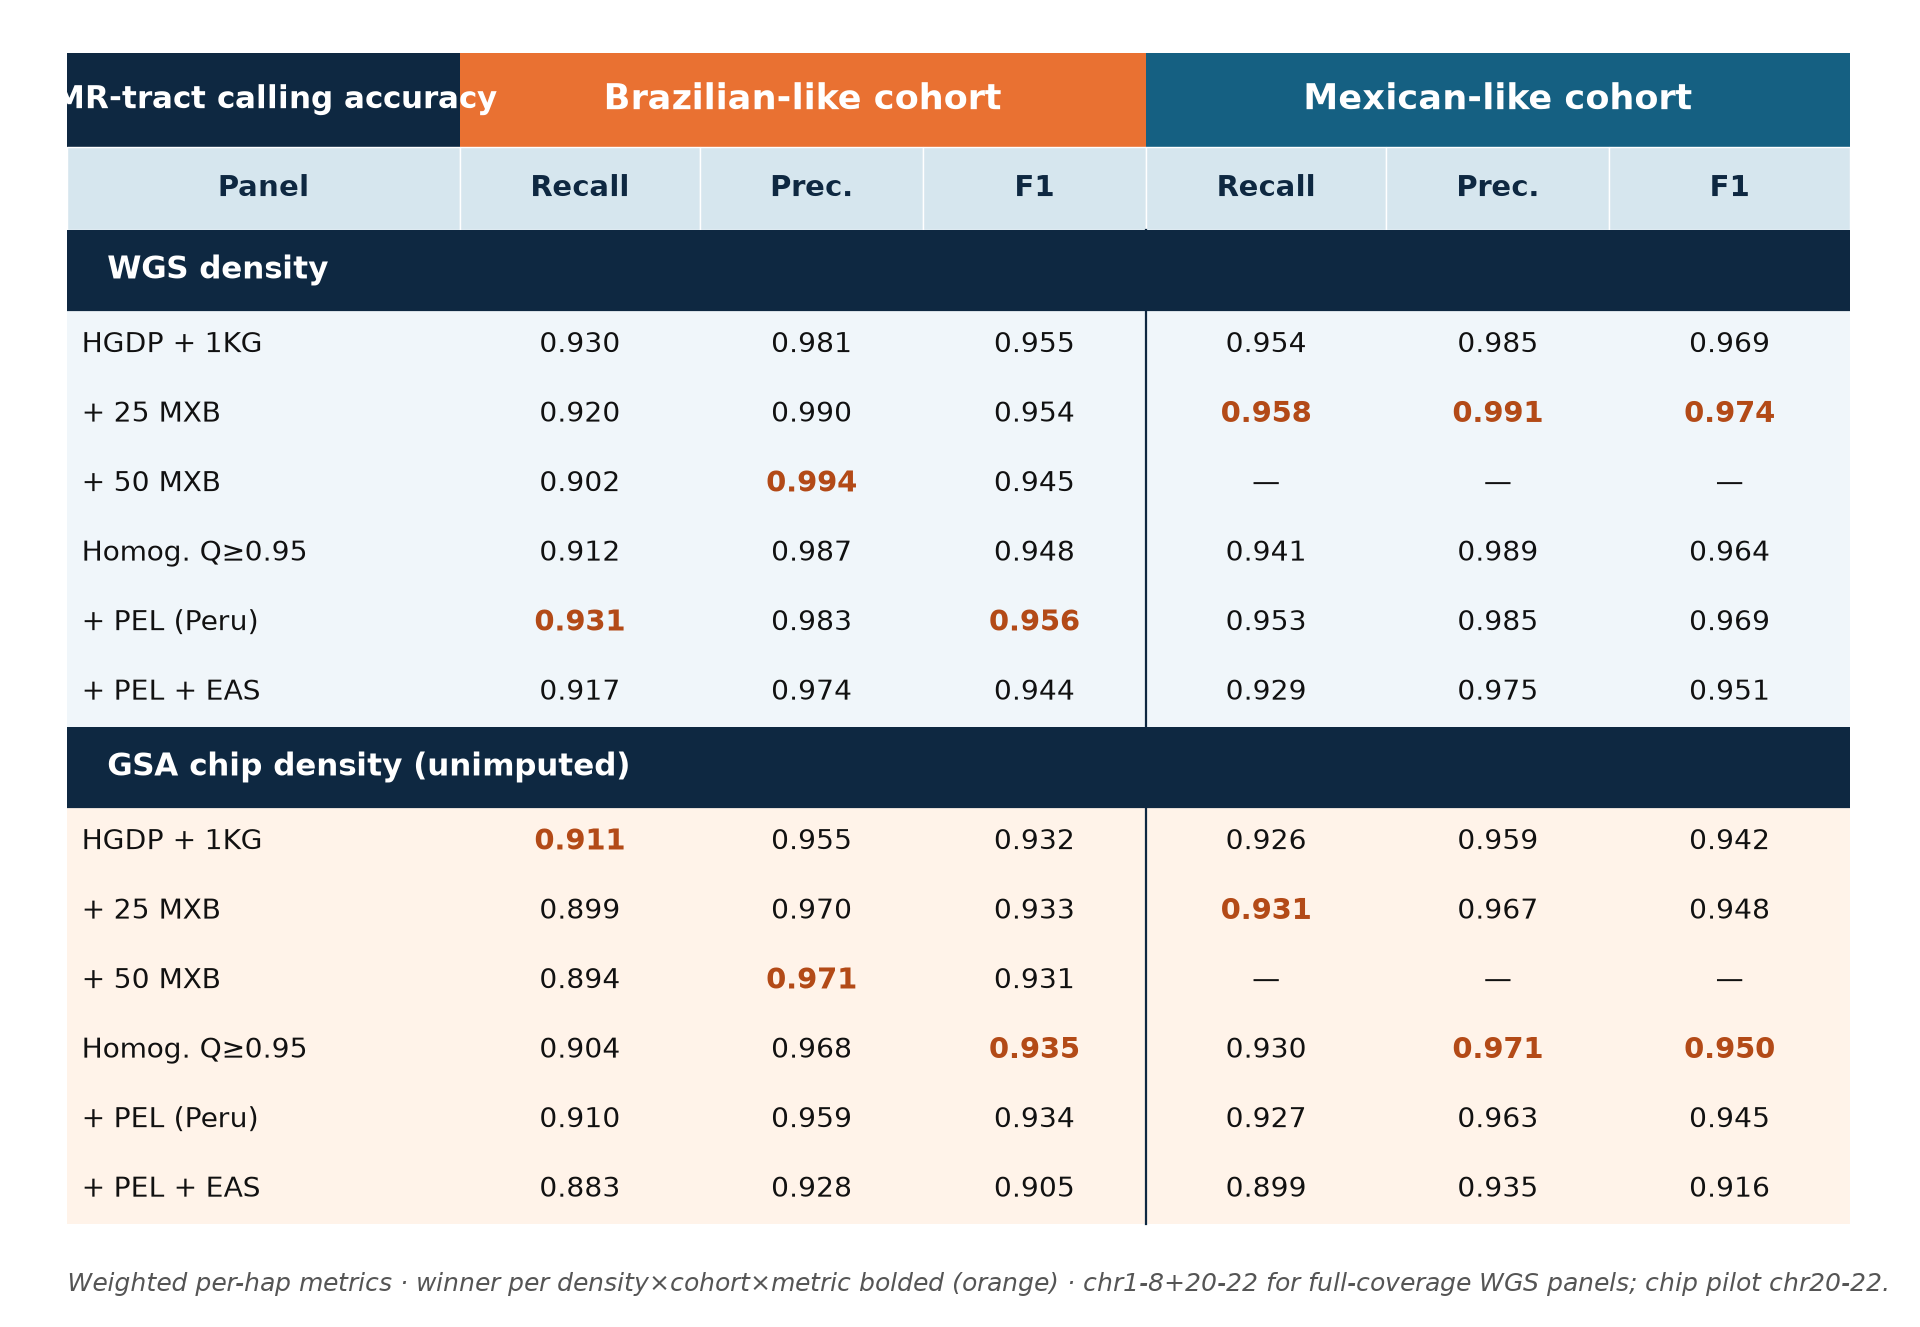
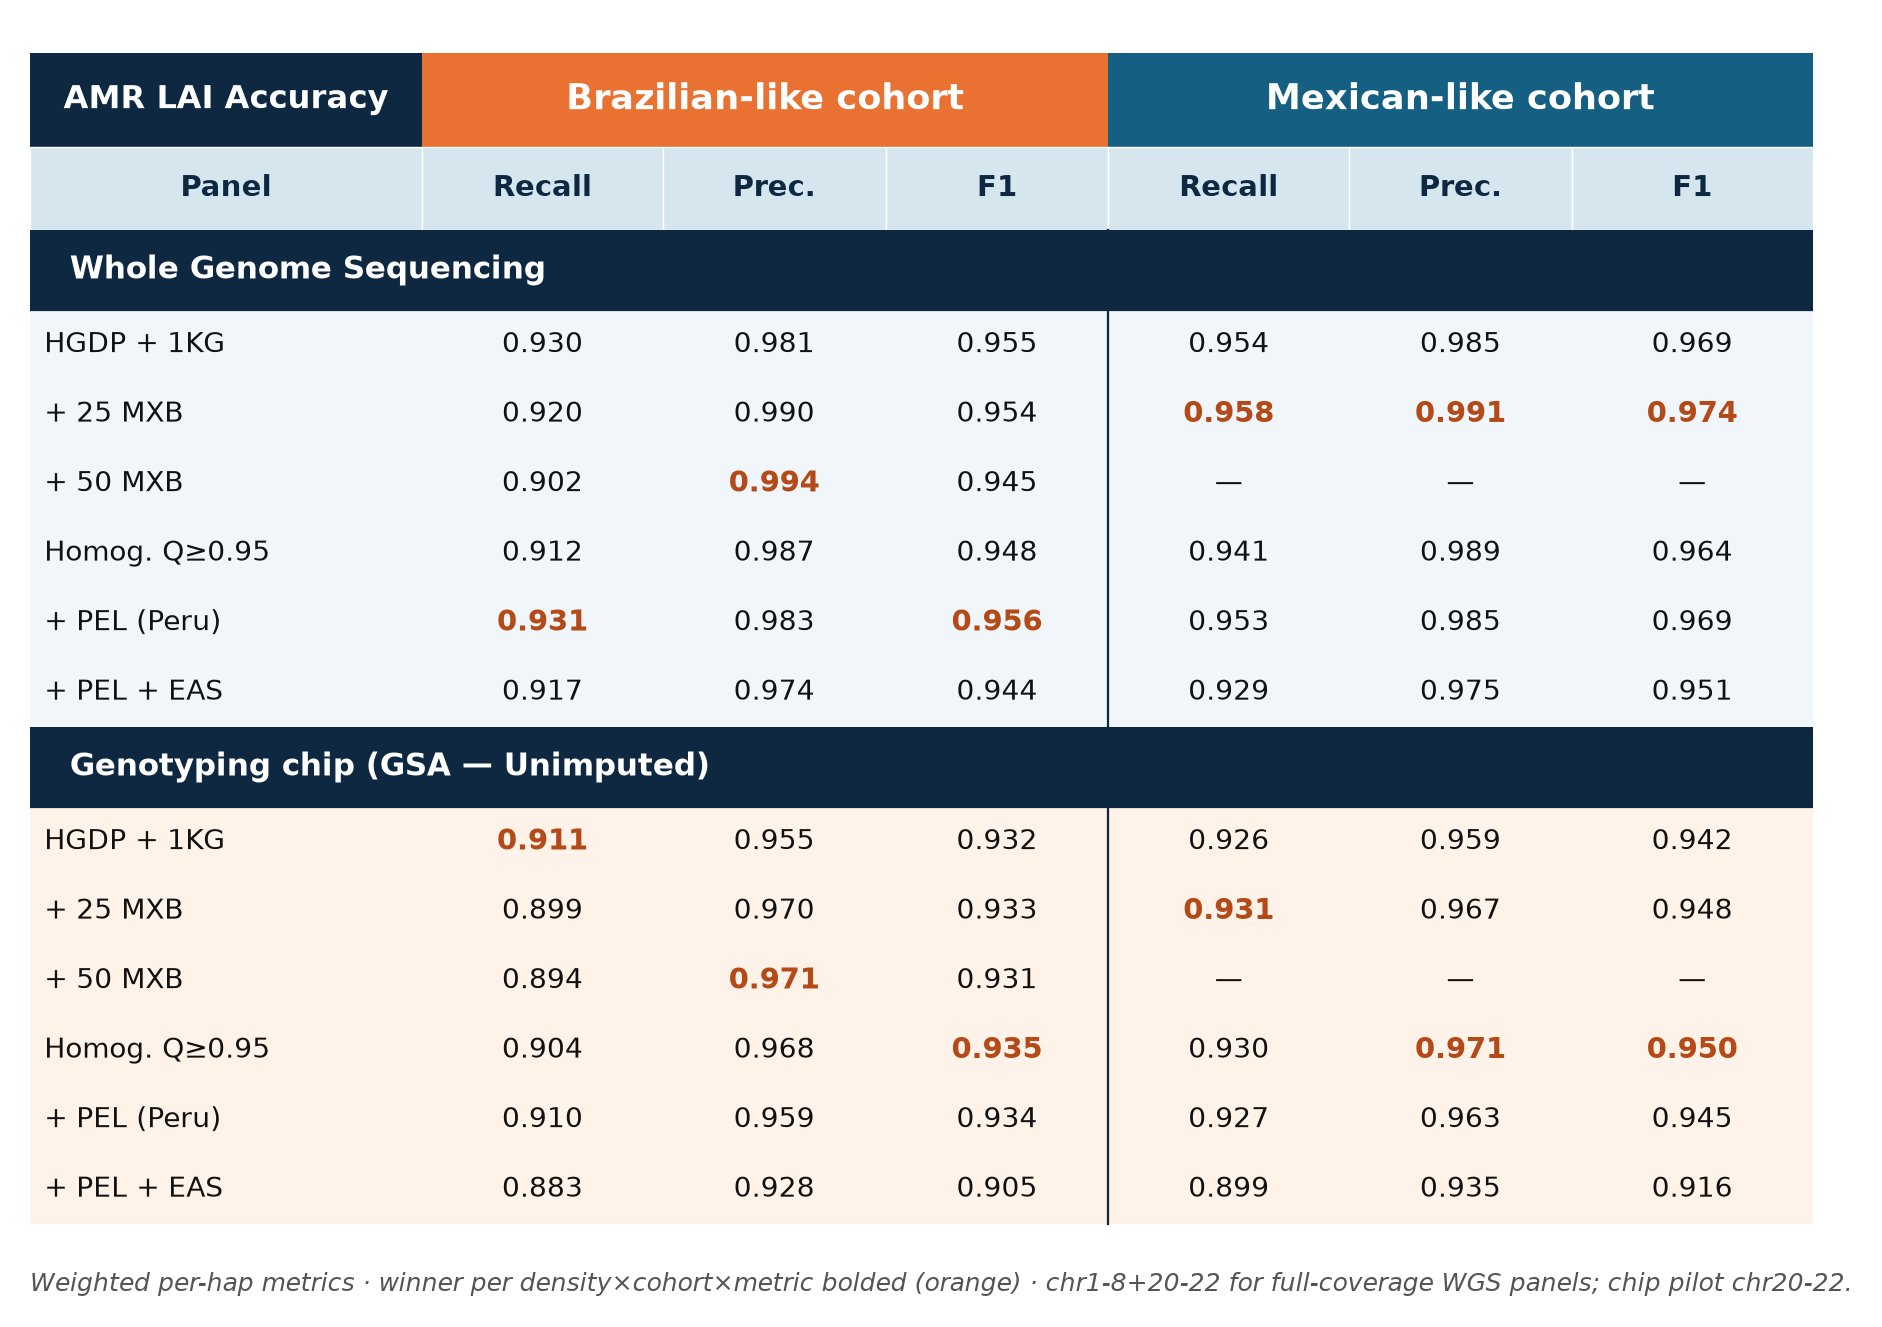
slides/tables: rename publication table labels
"AMR-tract calling accuracy"          -> "AMR LAI Accuracy"
  "WGS density"                         -> "Whole Genome Sequencing"
  "GSA chip density (unimputed)"        -> "Genotyping chip (GSA — Unimputed)"

Claude-Session: https://claude.ai/code/session_01Fbouf9yKVWMvU7uqqi6hid

diff --git a/slides/make_metrics_table.py b/slides/make_metrics_table.py
@@ -209,9 +209,9 @@ def render_amr_png(rows):
     h0 = row_h_of(0)
     ax.add_patch(plt.Rectangle((0, row_y(0)), col_x[1], h0,
                                facecolor=NAVY, edgecolor="none"))
-    ax.text(col_x[1]/2, row_y(0) + h0/2, "AMR-tract calling accuracy",
+    ax.text(col_x[1]/2, row_y(0) + h0/2, "AMR LAI Accuracy",
             ha="center", va="center", color="white",
-            fontsize=11, fontweight="bold")
+            fontsize=11.5, fontweight="bold")
     # Brasa banner
     ax.add_patch(plt.Rectangle((col_x[1], row_y(0)), col_x[4] - col_x[1], h0,
                                facecolor=ORANGE, edgecolor="none"))
@@ -273,7 +273,7 @@ def render_amr_png(rows):
     y = row_y(2); bh = row_h_of(2)
     ax.add_patch(plt.Rectangle((0, y), 1.0, bh,
                                facecolor=NAVY, edgecolor="none"))
-    ax.text(0.01, y + bh/2, "  WGS density",
+    ax.text(0.01, y + bh/2, "  Whole Genome Sequencing",
             ha="left", va="center", color="white",
             fontsize=11, fontweight="bold")
 
@@ -285,7 +285,7 @@ def render_amr_png(rows):
     y = row_y(chip_hdr_i); bh = row_h_of(chip_hdr_i)
     ax.add_patch(plt.Rectangle((0, y), 1.0, bh,
                                facecolor=NAVY, edgecolor="none"))
-    ax.text(0.01, y + bh/2, "  GSA chip density (unimputed)",
+    ax.text(0.01, y + bh/2, "  Genotyping chip (GSA — Unimputed)",
             ha="left", va="center", color="white",
             fontsize=11, fontweight="bold")
 
